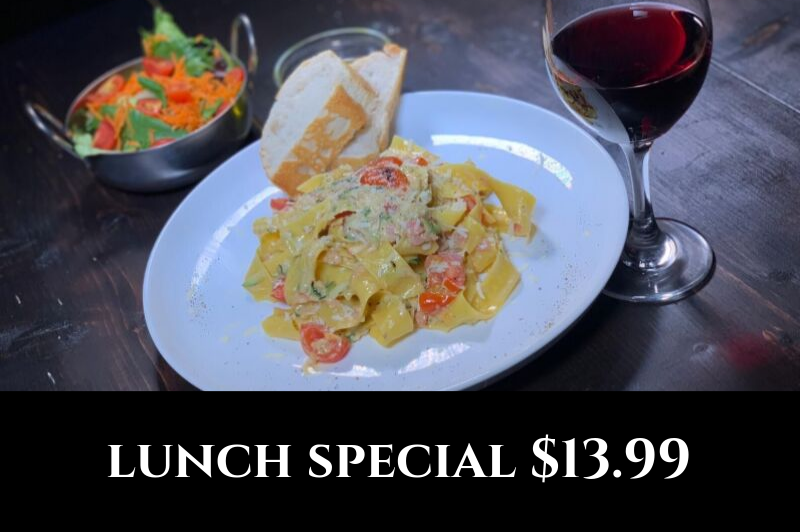
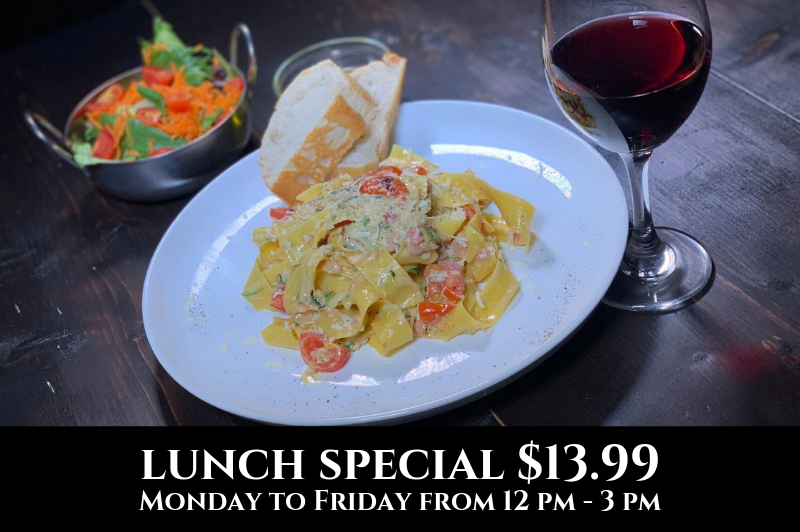
offers fixes

diff --git a/index.html b/index.html
@@ -152,7 +152,7 @@
                   <img src="images/offer_5.png" alt="terre Del Sapore" class="img-fluid shadow">
                   <div class="media-body p-md-5 p-4">
                     <h5 class="mt-0 h4">Prosecco, Mimosa and Belini only $3.</h5>
-                    <p class="mb-4">Saturday and Sunday. Substitutions and add ons might be charged additionally.</p>
+                    <p class="mb-4">Saturday and Sunday. Must be 21 years of age or older. Substitutions and add ons charged additionally.</p>
                   </div>
                 </div>
               </div>    
@@ -161,8 +161,8 @@
                 <div class="media d-block mb-4 text-center site-media site-animate border-0">
                   <img src="images/offer_6.png" alt="terre Del Sapore" class="img-fluid shadow">
                   <div class="media-body p-md-5 p-4">
-                    <h5 class="mt-0 h4">Small salad, pizza or pasta with a drinks.</h5>
-                    <p class="mb-4">Monday to Friday from 12pm - 3pm. Substitutions and add ons might be charged additionally.</p>
+                    <h5 class="mt-0 h4">Small salad, pizza or pasta and a glass of wine, beer or soft drink.</h5>
+                    <p class="mb-4" style="line-height: 1.3;">Substitutions and add ons might be charged additionally.</p>
                   </div>
                 </div>
               </div>   
